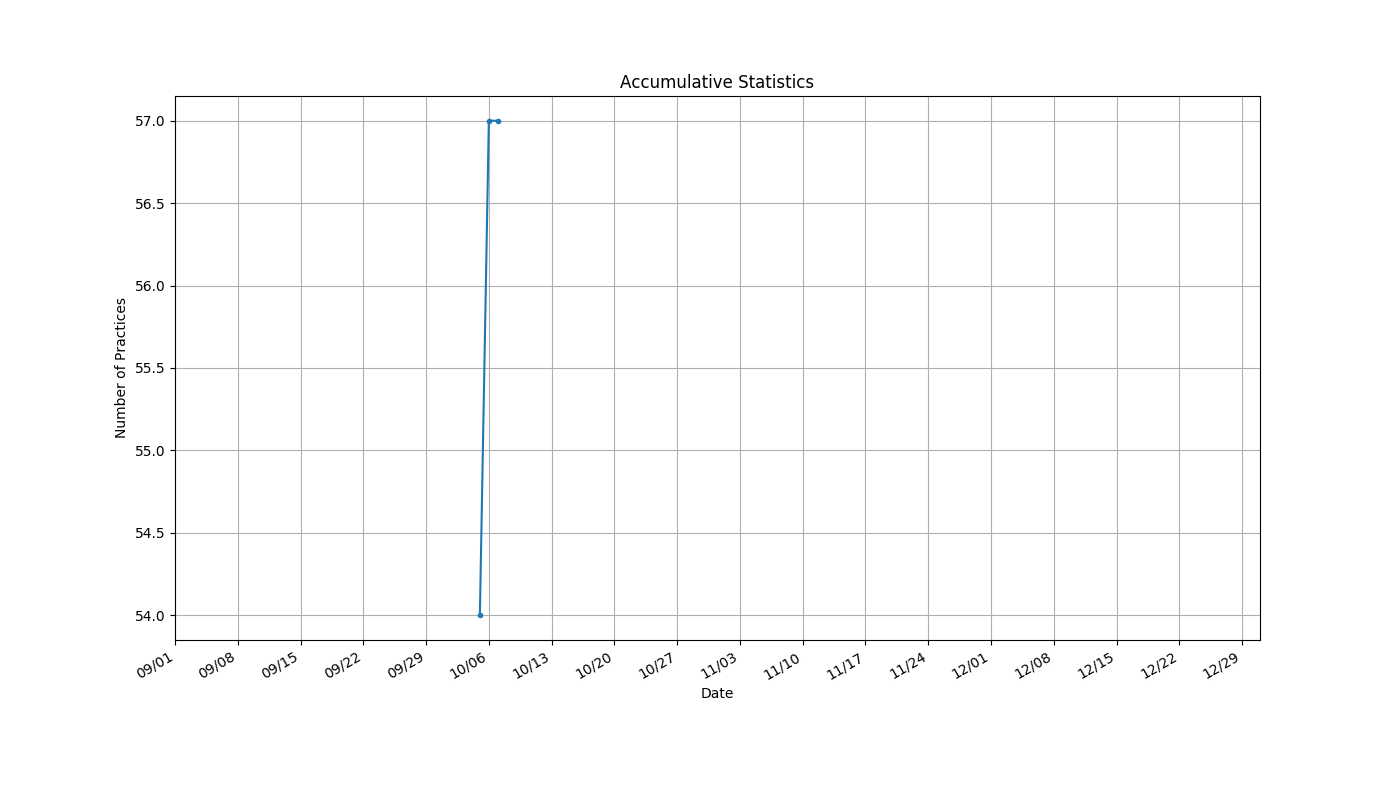
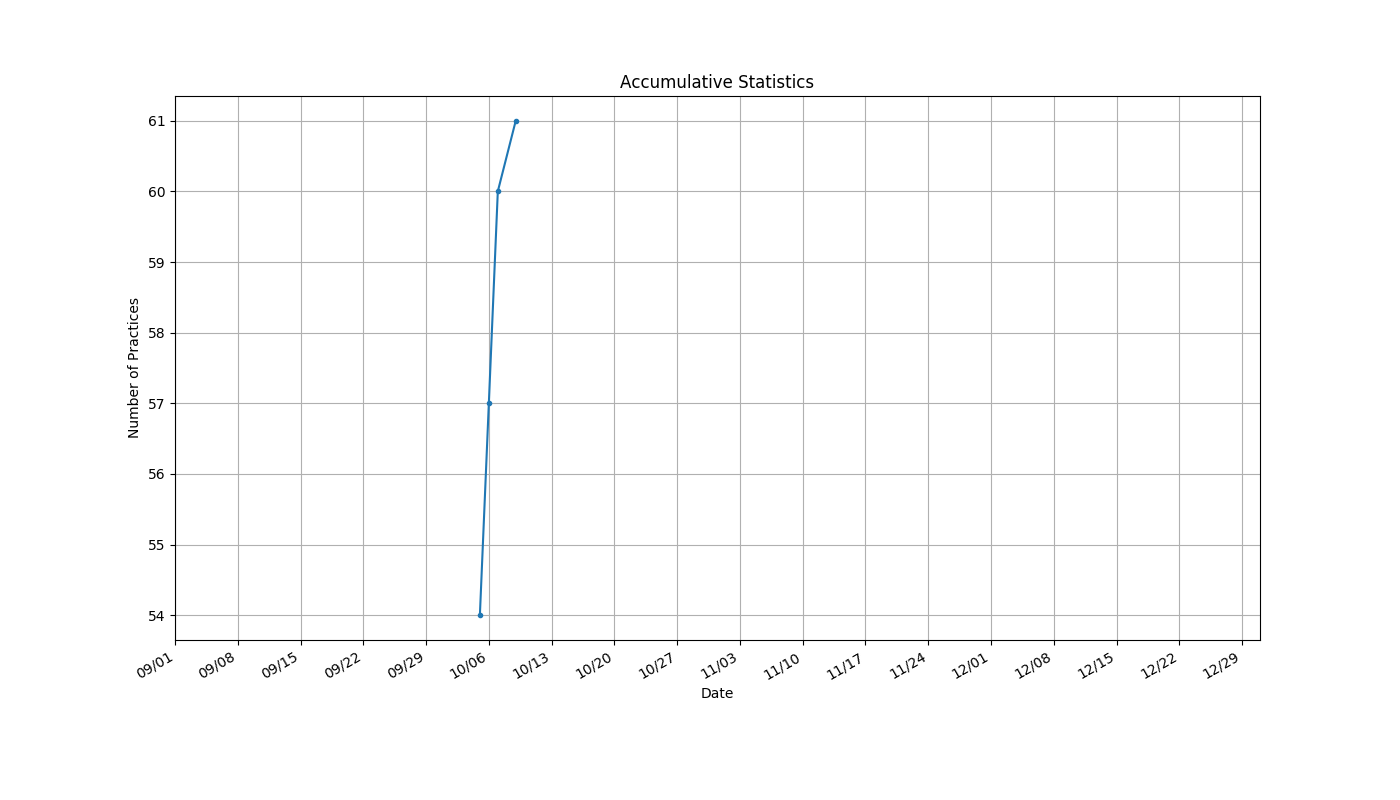
Added _0094_BinaryTreeInorderTraversal.py

diff --git a/algo/tree/_0094_BinaryTreeInorderTraversal.py b/algo/tree/_0094_BinaryTreeInorderTraversal.py
@@ -1,0 +1,48 @@
+from typing import List
+
+# Definition for a binary tree node.
+class TreeNode:
+    def __init__(self, x):
+        self.val = x
+        self.left = None
+        self.right = None
+
+class Solution:
+    def inorderTraversal(self, root: TreeNode) -> List[int]:
+        if root is None:
+            return []
+        res = []    #array
+        stack = []  #stack 
+        
+        cur = root 
+        stack.append(root)
+        while stack:
+            if cur.left:
+                stack.append(cur.left)
+                cur = cur.left
+            else:
+                out = stack.pop()  
+                res.append(out.val)    #use the node
+                if out.right:
+                    cur = out.right
+                    stack.append(cur)
+        return res
+            
+    #================================================
+    
+    def inorderTraversal_recursive(self, root: TreeNode) -> List[int]:
+        if root is None:
+            return []
+        arr = []
+        self.helper(root, arr)
+        return arr
+    
+    def helper(self, node: TreeNode, arr: List[int]):
+        if node is None:
+            return 
+        self.helper(node.left, arr)
+        arr.append(node.val)
+        self.helper(node.right, arr)
+        return 
+    
+        

diff --git a/algodraw.py b/algodraw.py
@@ -72,20 +72,20 @@ today_date = datetime.date.today()
 today_value = getPracticeNumber()
 print(">> Read today info: (date =", today_date, ", value =", today_value, ")")
 
-print(">> Read from files: ", FILE_STATISTICS)
+print(">> Read from files:", FILE_STATISTICS)
 read(dates, values)
 latest_date = dates[-1].strftime(DATE_FORMATTER)
 
 
 if str(today_date) != str(latest_date): 
-    print(">> Not updated yet: (latest = ", latest_date, ", today = " ,today_date, ")") 
+    print(">> Status : Not updated yet (latest = ", latest_date, ", today = " ,today_date, ")") 
     print(">> Write the following today's data into log.")
-    print(">> New log: " + str(today_date) + "   " + str(today_value))
+    print(">> New log: \"" + str(today_date) + "   " + str(today_value), "\"")
     write(today_date, today_value)
     dates.append(today_date) 
     values.append(today_value)
 else:
-    print(">> Already updated.")
+    print(">> Status: Already updated.")
 
-print(">> Drawing the graph...")
+print(">> Save the image:", FILE_IMAGE)
 draw(dates, values)

diff --git a/README.md b/README.md
@@ -59,6 +59,7 @@ algo
 │   ├── _0225_ImplementStackUsingQueues.py
 │   └── _0232_ImplementQueueUsingStacks.py
 ├── tree
+│   ├── _0094_BinaryTreeInorderTraversal.py
 │   ├── _0098_ValidateBinarySearchTree.py
 │   ├── _0100_SameTree.py
 │   ├── _0101_SymmetricTree.py
@@ -76,7 +77,7 @@ algo
     ├── _0127_WordLadder.py
     └── wordladder.py
 
-13 directories, 62 files
+13 directories, 63 files
 =====================================
 _0001_TwoSum.py
 _0005_LongestPalindromicSubstring.py
@@ -100,6 +101,7 @@ _0077_Combinations.py
 _0078_Subsets.py
 _0081_SearchInRotatedSortedArray2.py
 _0089_GrayCode.py
+_0094_BinaryTreeInorderTraversal.py
 _0098_ValidateBinarySearchTree.py
 _0100_SameTree.py
 _0101_SymmetricTree.py
@@ -139,6 +141,6 @@ _0704_BinarySearch.py
 _0912_SortAnArray.py
 _1079_LetterTilePossibilities.py
 =====================================
-Num of Python Practice:  60
+Num of Python Practice:  61
 ```
 ![Alt text](statistics.png)
